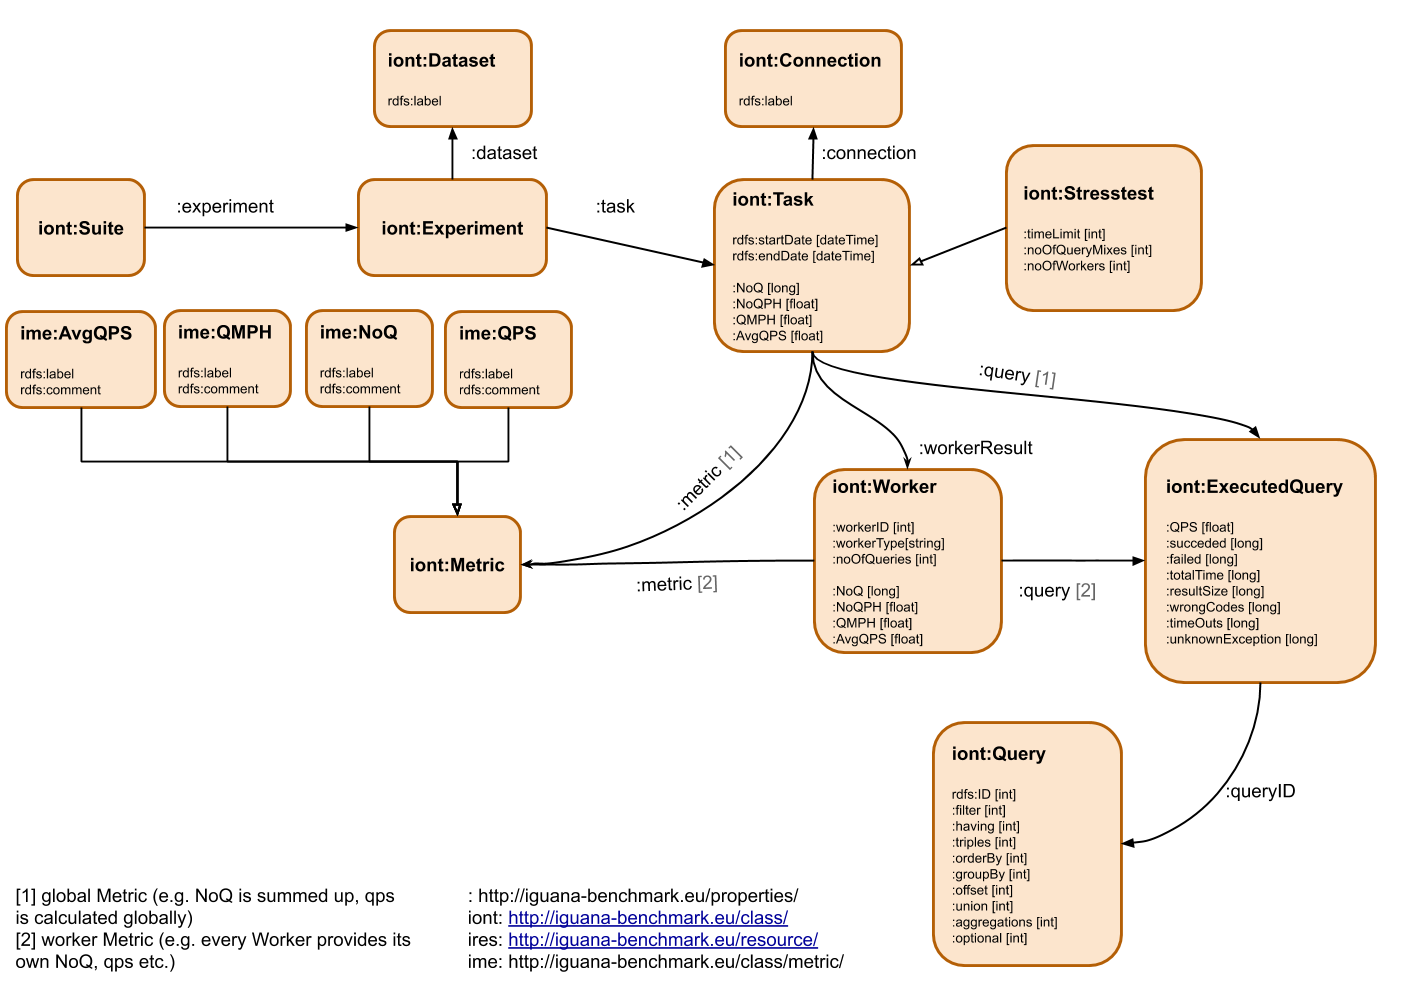
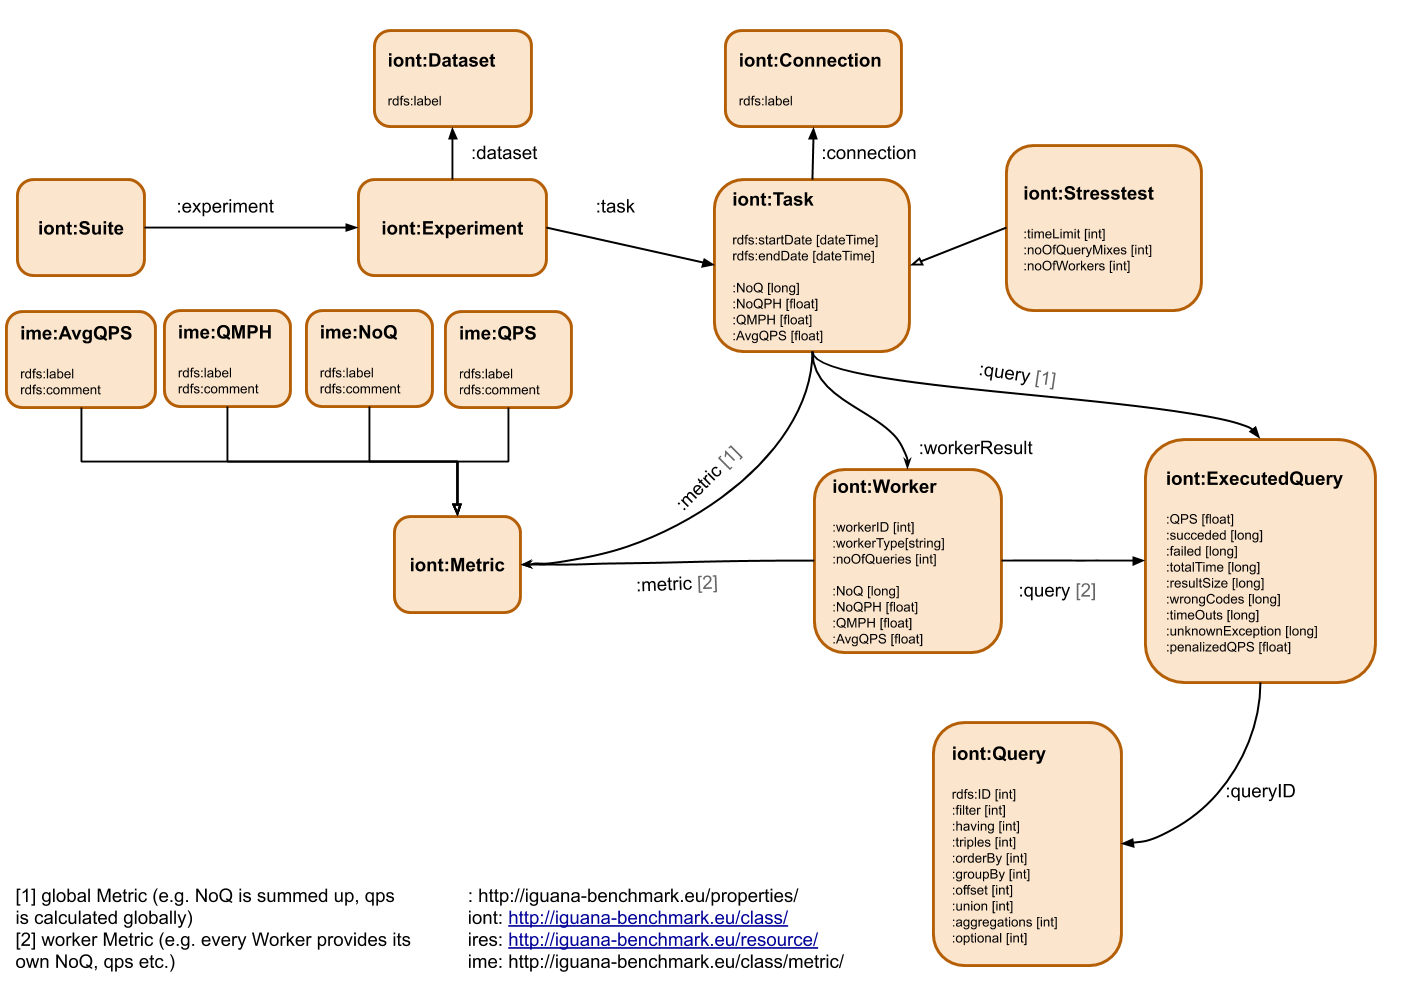
Added penalized QPS to QPS metric

Changed region(s): [[0.8119, 0.4683, 0.9681, 0.6556]]

diff --git a/iguana.resultprocessor/src/main/java/org/aksw/iguana/rp/metrics/impl/QPSMetric.java b/iguana.resultprocessor/src/main/java/org/aksw/iguana/rp/metrics/impl/QPSMetric.java
@@ -31,9 +31,11 @@ public class QPSMetric extends AbstractMetric {
 	private static Property timeOuts = ResourceFactory.createProperty(COMMON.PROP_BASE_URI+"timeOuts");
 	private static Property unknownException = ResourceFactory.createProperty(COMMON.PROP_BASE_URI+"unknownException");
 	private static Property wrongCodes = ResourceFactory.createProperty(COMMON.PROP_BASE_URI+"wrongCodes");
+	private static Property penalizedQPSProperty = ResourceFactory.createProperty(COMMON.PROP_BASE_URI+"penalizedQPS");
 	private static Property queryID = ResourceFactory.createProperty(COMMON.PROP_BASE_URI+"queryID");
 
 	protected long hourInMS = 3600000;
+	protected Integer penalty = 180000;
 	
 	public QPSMetric() {
 		super(
@@ -41,6 +43,15 @@ public class QPSMetric extends AbstractMetric {
 				"QPS",
 				"Will calculate for each query the amount of how many times the query could be executed succesfully in one second."
 				+ "Further on it will save the totaltime of each query, the failure and the success");
+	}
+
+	public QPSMetric(Integer penalty) {
+		super(
+				"Queries Per Second",
+				"QPS",
+				"Will calculate for each query the amount of how many times the query could be executed succesfully in one second."
+						+ "Further on it will save the totaltime of each query, the failure and the success");
+		this.penalty = penalty;
 	}
 
 	public QPSMetric(String name, String shortName, String description) {
@@ -59,6 +70,10 @@ public class QPSMetric extends AbstractMetric {
 		long unknown = tmpSuccess==COMMON.QUERY_UNKNOWN_EXCEPTION?1:0;
 		long wrongCode = tmpSuccess==COMMON.QUERY_HTTP_FAILURE?1:0;
 		long size=-1;
+		double penalizedTime=time;
+		if(failure==1){
+			penalizedTime=penalty;
+		}
 		if(p.containsKey(COMMON.RECEIVE_DATA_SIZE)) {
 			size = Long.parseLong(p.get(COMMON.RECEIVE_DATA_SIZE).toString());
 		}
@@ -78,14 +93,15 @@ public class QPSMetric extends AbstractMetric {
 			oldArr[4] = (long) oldArr[4] + timeout;
 			oldArr[5] = (long) oldArr[5] + unknown;
 			oldArr[6] = (long) oldArr[6] + wrongCode;
+			oldArr[7] = (int) oldArr[7] + penalizedTime;
 		}
 		else if(tmp!=null){
-			Object[] resArr = {time, success, failure, size, timeout, unknown, wrongCode,queryHash};
+			Object[] resArr = {time, success, failure, size, timeout, unknown, wrongCode, penalizedTime, queryHash};
 			tmp.put(queryID, resArr);
 		}
 		else{
 			tmp = new Properties();
-			Object[] resArr = new Object[]{time, success, failure, size, timeout, unknown, wrongCode,queryHash};
+			Object[] resArr = new Object[]{time, success, failure, size, timeout, unknown, wrongCode,penalizedTime,queryHash};
 			tmp.put(queryID, resArr);
 		}
 		addDataToContainer(extra, tmp);
@@ -123,6 +139,8 @@ public class QPSMetric extends AbstractMetric {
 			if(map!=null)
 				mergeResults(map, queryID, resArr);
 			Double qps = (long)resArr[1]*1.0/((double)resArr[0]/1000.0);
+			Double pqps = (long)resArr[1]*1.0/((double)resArr[7]/1000.0);
+
 			Resource query = ResourceFactory.createResource(subjectParent.getURI()+"/"+queryID);
 			m.add(subjectParent, queryProperty, query);
 			m.add(query, qpsProperty, ResourceFactory.createTypedLiteral(qps));
@@ -138,7 +156,8 @@ public class QPSMetric extends AbstractMetric {
 			m.add(query, timeOuts, ResourceFactory.createTypedLiteral((long)resArr[4]));
 			m.add(query, unknownException, ResourceFactory.createTypedLiteral((long)resArr[5]));
 			m.add(query, wrongCodes, ResourceFactory.createTypedLiteral((long)resArr[6]));
-			m.add(query, QPSMetric.queryID, ResourceFactory.createResource(COMMON.RES_BASE_URI+(int)resArr[7]+ "/" + queryID.toString()));
+			m.add(query, penalizedQPSProperty, ResourceFactory.createTypedLiteral(pqps));
+			m.add(query, QPSMetric.queryID, ResourceFactory.createResource(COMMON.RES_BASE_URI+(int)resArr[8]+ "/" + queryID.toString()));
 			m.add(query, RDF.type, ResourceFactory.createResource(COMMON.CLASS_BASE_URI+"ExecutedQuery"));
 		}
 	}

diff --git a/iguana.corecontroller/src/main/java/org/aksw/iguana/cc/config/IguanaConfig.java b/iguana.corecontroller/src/main/java/org/aksw/iguana/cc/config/IguanaConfig.java
@@ -14,7 +14,9 @@ import org.slf4j.LoggerFactory;
 import java.io.IOException;
 import java.time.Instant;
 import java.util.ArrayList;
+import java.util.HashMap;
 import java.util.List;
+import java.util.Map;
 
 /**
  * Gets the {@link org.apache.commons.configuration.Configuration} component and will generate
@@ -104,9 +106,18 @@ public class IguanaConfig {
 			metrics.add(config);
 			config = new MetricConfig();
 			config.setClassName("QPS");
+			Map<Object, Object> configMap = new HashMap<Object, Object>();
+			configMap.put("failPenalty", 180000);
+			config.setConfiguration(configMap);
 			metrics.add(config);
 			config = new MetricConfig();
 			config.setClassName("NoQPH");
+			metrics.add(config);
+			config = new MetricConfig();
+			config.setClassName("AvgQPS");
+			metrics.add(config);
+			config = new MetricConfig();
+			config.setClassName("NoQ");
 			metrics.add(config);
 
 		}
